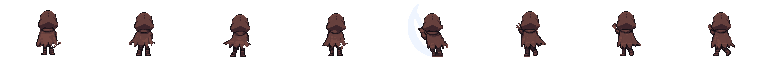
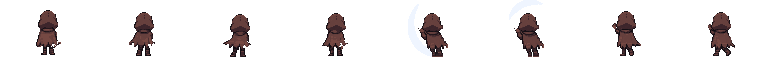
fix: 후면 2타 순서를 정면과 같게 (쳐올림 → 머리 위 → 멈춤)
후면 2타가 6번째 장에서 이미 멈춘 자세라 정면보다 한 박자 먼저 끝나 보였다.
5번째는 잔상 위에 칼을 보이게, 6번째는 칼을 쳐든 몸에 머리 위 잔상을 얹어
정면과 같은 순서로 맞춤.

Changed region(s): [[0.6562, 0.1875, 0.7188, 0.9062]]

diff --git a/assets/concepts/pixellab/player_import/build_remake_preview.py b/assets/concepts/pixellab/player_import/build_remake_preview.py
@@ -91,8 +91,9 @@ OVERRIDES = {
     # attack_back_v3_68.png). 보이는 파란 칼날의 끝에서 칼 길이(24)만큼 몸 쪽이 손. 칼은 늘 몸 뒤.
     # 2타: 1~4 오른쪽 아래로 늘어뜨림 → 5 쳐올리는 잔상(칼 안 그림) → 6~8 왼쪽 어깨 위
     # 3차 (2026-11-20 사용자: 측면·정면과 일관성) 정면 8장과 장마다 같은 그림. 칼날이 두꺼워 estimate 의 너비 한도를 6 으로 어림.
+    # 5·6 은 정면처럼 쳐든 칼을 그림 (6 은 5 의 몸 + 머리 위 잔상, 같은 날 사용자: 순서가 이상함)
     ('backv3_2', 1): (39, 45, -49, True), ('backv3_2', 2): (39, 44, -48, True), ('backv3_2', 3): (38, 46, -47, True),
-    ('backv3_2', 4): (39, 45, -48, True), ('backv3_2', 5): (24, 32, 116, True, 0), ('backv3_2', 6): (34, 23, -148, True),
+    ('backv3_2', 4): (39, 45, -48, True), ('backv3_2', 5): (25, 33, 114, True), ('backv3_2', 6): (25, 33, 114, True),
     ('backv3_2', 7): (34, 23, -146, True), ('backv3_2', 8): (32, 20, -136, True),
     # 3타: 1~5 오른쪽 허리로 당김 (칼끝만 보임) → 6~8 찌른 칼날이 후드 위로 곧게
     # 다시 (같은 날 사용자: 2타 6~8 칼 각도, 3타 당김·찌르기 자세가 이상함): 2타 6~8 은 쳐올린 칼이 왼쪽 어깨 위에서 왼쪽 위를 향함,
@@ -132,10 +133,10 @@ FRAME_PICK = {
     'attack3': [1, 2, 3, 4, 5, 6, 7, 8],
 }
 # 파란 덩어리를 모두 휘두른 잔상으로 보는 프레임 (칼은 몸에 가려 안 보이고 잔상만 있음, 2026-11-18 후면 1·2타)
-FORCE_SMEAR = {('backgpt1', 4), ('backgpt2', 4), ('backpl1', 5), ('backpl1', 6), ('backv2_1', 6), ('backv3_2', 5)}
+FORCE_SMEAR = {('backgpt1', 4), ('backgpt2', 4), ('backpl1', 5), ('backpl1', 6), ('backv2_1', 6), ('backv3_2', 5), ('backv3_2', 6)}
 # 잔상을 몸 위에 겹쳐 그리는 프레임 (반투명): 후면 1타 내려베는 순간 — 몸 뒤면 가운데가 가려져 한 번에 베는 느낌이 안 남 (2026-11-18)
 # 직접 그린 잔상이라 원본 칼 자리로 지우지 않는 칸
-KEEP_WHOLE_SMEAR = {('backv2_1', 6), ('backv3_2', 5)}
+KEEP_WHOLE_SMEAR = {('backv2_1', 6), ('backv3_2', 5), ('backv3_2', 6)}
 SMEAR_ON_TOP = {('backpl1', 5)}  # backv2_1 5 는 몸 뒤 (2026-11-18 사용자 지적)
 # 칼·잔상이 몸과 얼굴을 가로질러 지운 자리가 지저분하게 남는 프레임은 깨끗한 프레임의 그림을 빌려 쓴다
 # (2026-11-17 사용자 지적: 얼굴 그림자가 프레임마다 다르고 픽셀이 묻어 있음).

diff --git a/game/config.py b/game/config.py
@@ -237,8 +237,9 @@ PLAYER_ATTACK_SWORD_BACK = (
     # 2·3타 (같은 날 사용자: 2·3타 진행): 1타와 같은 방법. ChatGPT 가 좌우 뒤집은 정면 8장을 뒤에서 본 모습으로 그림 → 8장 함께 화풍 입힘.
     # 2타: 오른쪽 아래로 늘어뜨림 → 5번째 쳐올리는 잔상(몸 뒤) → 왼쪽 어깨 위. 3타: 오른쪽 허리로 당김 → 6번째 찌른 칼날이 후드 위로 곧게.
     # 2타 3차 (2026-11-20 사용자: 측면·정면과 일관성): 정면 8장과 장마다 같은 그림 (발을 디딘 채 쳐올려 왼쪽 어깨에서 칼을 왼쪽으로)
+    # 5 쳐올림(칼이 보임) → 6 칼을 쳐든 채 머리 위 잔상 (정면과 같은 순서, 같은 날 사용자 지적) → 7·8 멈춤
     ((53, 42, -49, True), (53, 41, -48, True), (52, 43, -47, True), (53, 42, -48, True),
-     (38, 29, 116, True, 0), (48, 20, -148, True), (48, 20, -146, True), (46, 17, -136, True)),
+     (39, 30, 114, True), (39, 30, 114, True), (48, 20, -146, True), (46, 17, -136, True)),
     # 3타 3차 (2026-11-20 사용자: 측면·정면 찌르기와 일관성): 정면 8장과 장마다 같은 그림 (똑바로 서서 오른쪽 허리로 당김 → 발 모으고 찌름)
     ((49, 33, -51, True), (47, 26, -59, True), (50, 24, -70, True), (49, 25, -68, True),
      (50, 26, -67, True), (47, 24, 90, True), (47, 24, 90, True), (47, 24, 90, True)),
@@ -257,8 +258,8 @@ PLAYER_ATTACK_FRAME_ENDS_BACK = (
 PLAYER_ATTACK_FRAME_SHIFTS_BACK = (
     # 1타: 1~5 들어 올림 (후드 48), 7·8 낮은 마무리 (후드 50)
     ((0, 0), (0, 0), (-1, 0), (0, 0), (1, 0), (0, 0), (-1, 0), (1, 0)),
-    # 2타 (2026-11-20 3차 그림): 1번은 발이 1 픽셀 뜨고 3·5·6번은 1 픽셀 묻힘, 6~8 은 몸 전체가 오른쪽으로 2(8번은 1) 픽셀
-    ((0, -1), (0, 0), (0, 1), (0, 0), (0, 1), (-2, 1), (-2, 0), (-1, 0)),
+    # 2타 (2026-11-20 3차 그림): 1번은 발이 1 픽셀 뜨고 3·5·6번은 1 픽셀 묻힘(6 은 5 의 몸), 7·8 은 몸 전체가 오른쪽으로 2·1 픽셀
+    ((0, -1), (0, 0), (0, 1), (0, 0), (0, 1), (0, 1), (-2, 0), (-1, 0)),
     # 3타 (2026-11-20 3차 그림): 후드 가운데는 모두 48, 4·6·8번만 발이 1 픽셀 묻힘
     ((0, 0), (0, 0), (0, 0), (0, 1), (0, 0), (0, 1), (0, 0), (0, 1)),
 )

diff --git a/assets/concepts/pixellab/player_import/build_attack_back_v3.py b/assets/concepts/pixellab/player_import/build_attack_back_v3.py
@@ -26,7 +26,10 @@ GAME = os.path.normpath(os.path.join(HERE, '..', '..', '..', 'images', 'player')
 HITS = {
     2: {'dir': 'hit2_v3', 'src': 'result_hit2_back.png',  # 3차 (2026-11-20 사용자: 측면·정면과 일관성): 정면과 장마다 같은 그림
         # 쳐올리는 장(8장 중 번호)의 잔상: (원 중심 x, y, 반지름, 시작 각도, 끝 각도, 두께). 오른쪽 아래 → 왼쪽 위
-        'swoosh': (5, (40, 30, 30, 70, 230, 7))},
+        # 쳐올리는 장들의 잔상 [(장, 원 인자)], 'reuse': {장: 몸을 빌려 올 장}.
+        # 2026-11-20 사용자 지적(후면 동작 순서가 이상함): 정면은 5 쳐올림(칼이 보임) → 6 머리 위로 계속(칼을 든 채 머리 위 잔상)
+        # → 7·8 어깨에 멈춤인데, 후면은 6 에서 이미 멈춘 자세였다. 6 은 5 의 몸(칼을 쳐든)에 머리 위 잔상을 얹는다.
+        'swoosh': [(5, (40, 30, 30, 70, 230, 7)), (6, (36, 24, 21, 185, 305, 6))], 'reuse': {6: 5}},
     3: {'dir': 'hit3_v3', 'src': 'result_hit3_back_frontmatch.png', 'swoosh': None},  # 3차: 사용자가 받은 그림 중 정면과 장마다 같은 것
 }
 OUT = 'attack_back_v3_68.png'
@@ -124,10 +127,11 @@ def build(hit, ref, palette):
     for k, c in enumerate(b.cells(v2_sheet(), 0)[1:9]):
         tone_ref.alpha_composite(c, (k * 68, 0))
     body = [body[0]] + [v2.despeckle(c) for c in v2.match_tones(body[1:], tone_ref)]
-    if cfg['swoosh']:
-        k, arc_args = cfg['swoosh']
+    for k, src in cfg.get('reuse', {}).items():
+        body[k] = body[src].copy()
+    for k, arc_args in cfg['swoosh'] or []:
         arc = bp.swoosh(body[k].size, *arc_args)  # 잔상은 몸 뒤 (뒷모습이라 칼은 몸 너머)
-        arc.alpha_composite(body[k])
+        arc.alpha_composite(no_blue(body[k]))  # 파란 칼날은 지우고 게임에서 칼을 따로 그림 (잔상만 파랑)
         body[k] = arc
     print(hit, 'scale', round(scale, 3))
     return body

diff --git a/PRE-PRD.md b/PRE-PRD.md
@@ -99,6 +99,7 @@
     왼쪽 위로 쳐올림(잔상은 몸 뒤), 3타는 오른쪽 허리로 당겼다가 찌른 칼날이 후드 위로 곧게 보임. 박자는 정면과 같음.
     **후면 2타 일관성 (같은 날 사용자 요청)**: 3타와 같은 방법으로, 받은 그림 중 정면 8장과 장마다 같은 것(1~4 똑바로 서서 칼을 오른쪽 아래로,
     5 쳐올림, 6~8 발을 디딘 채 왼쪽 어깨에서 칼을 왼쪽으로)으로 바꿈. 예전 그림은 6~8 에서 다리가 걷듯 벌어졌음.
+    순서도 정면과 같게 (같은 날 사용자 지적: 후면이 한 박자 먼저 멈춤): 5 쳐올림(칼이 잔상 위에 보임) → 6 칼을 쳐든 채 머리 위 잔상 → 7·8 멈춤.
     **후면 3타 일관성 (2026-11-20 사용자 결정)**: 동작이 멋있는 것보다 측면·정면 찌르기와 같은 동작이어야 함. 받은 그림 중 정면 8장과
     장마다 같은 것(똑바로 서서 오른쪽 허리로 당김 → 발을 모으고 찌름, 팔은 몸에 가려지고 칼날만 후드 위로)으로 바꿈.
     ~~**후면 망토 명암**: 후면 공격 1~3타의 망토에 명암을 넣어 정면·측면과 대비를 맞춤.~~ → 후면에는 명암을 넣지 않음, 모든 후면 그림은 원래 색감 (같은 날 사용자 결정).

diff --git a/docs/HANDOFF.md b/docs/HANDOFF.md
@@ -25,6 +25,9 @@
 - 현재 상태: 테스트 297개 통과, 스모크 실행 정상. 실제 창으로는 확인하지 못함 (그리기 캡처로 측면·정면·후면 비교).
 - 이어서 2타도 같은 방법 (사용자 요청): `hit2_v3/result_hit2_back.png`(정면과 장마다 같은 그림) → 화풍 입힘 → 칼 자리 다시 어림
   (칼날이 두꺼워 estimate 의 너비 한도 6) → `back_2.png`, config 2타 칼 줄·프레임 보정 줄 갱신. 5번째 잔상 장은 예전 설정 그대로.
+- 순서 바로잡음 (사용자 지적: 후면 동작 순서가 이상함): 정면은 5 쳐올림 → 6 머리 위로 계속 → 7·8 멈춤인데 후면 6 은 이미 멈춘 자세였음.
+  `build_attack_back_v3.py` HITS[2] 에 'reuse': {6: 5}(6 은 5 의 몸)와 잔상 목록(6 에 머리 위 잔상)을 두고, 5·6 은 파란 칼날을 지우고
+  게임에서 칼을 그림 (FORCE_SMEAR·KEEP_WHOLE_SMEAR 에 ('backv3_2', 6) 추가).
 - 남은 문제 / 다음 할 일: 푸시·PR 보류 중.
 
 ## 2026-11-20 — 몬스터 어그로 시스템 (Claude Code)
